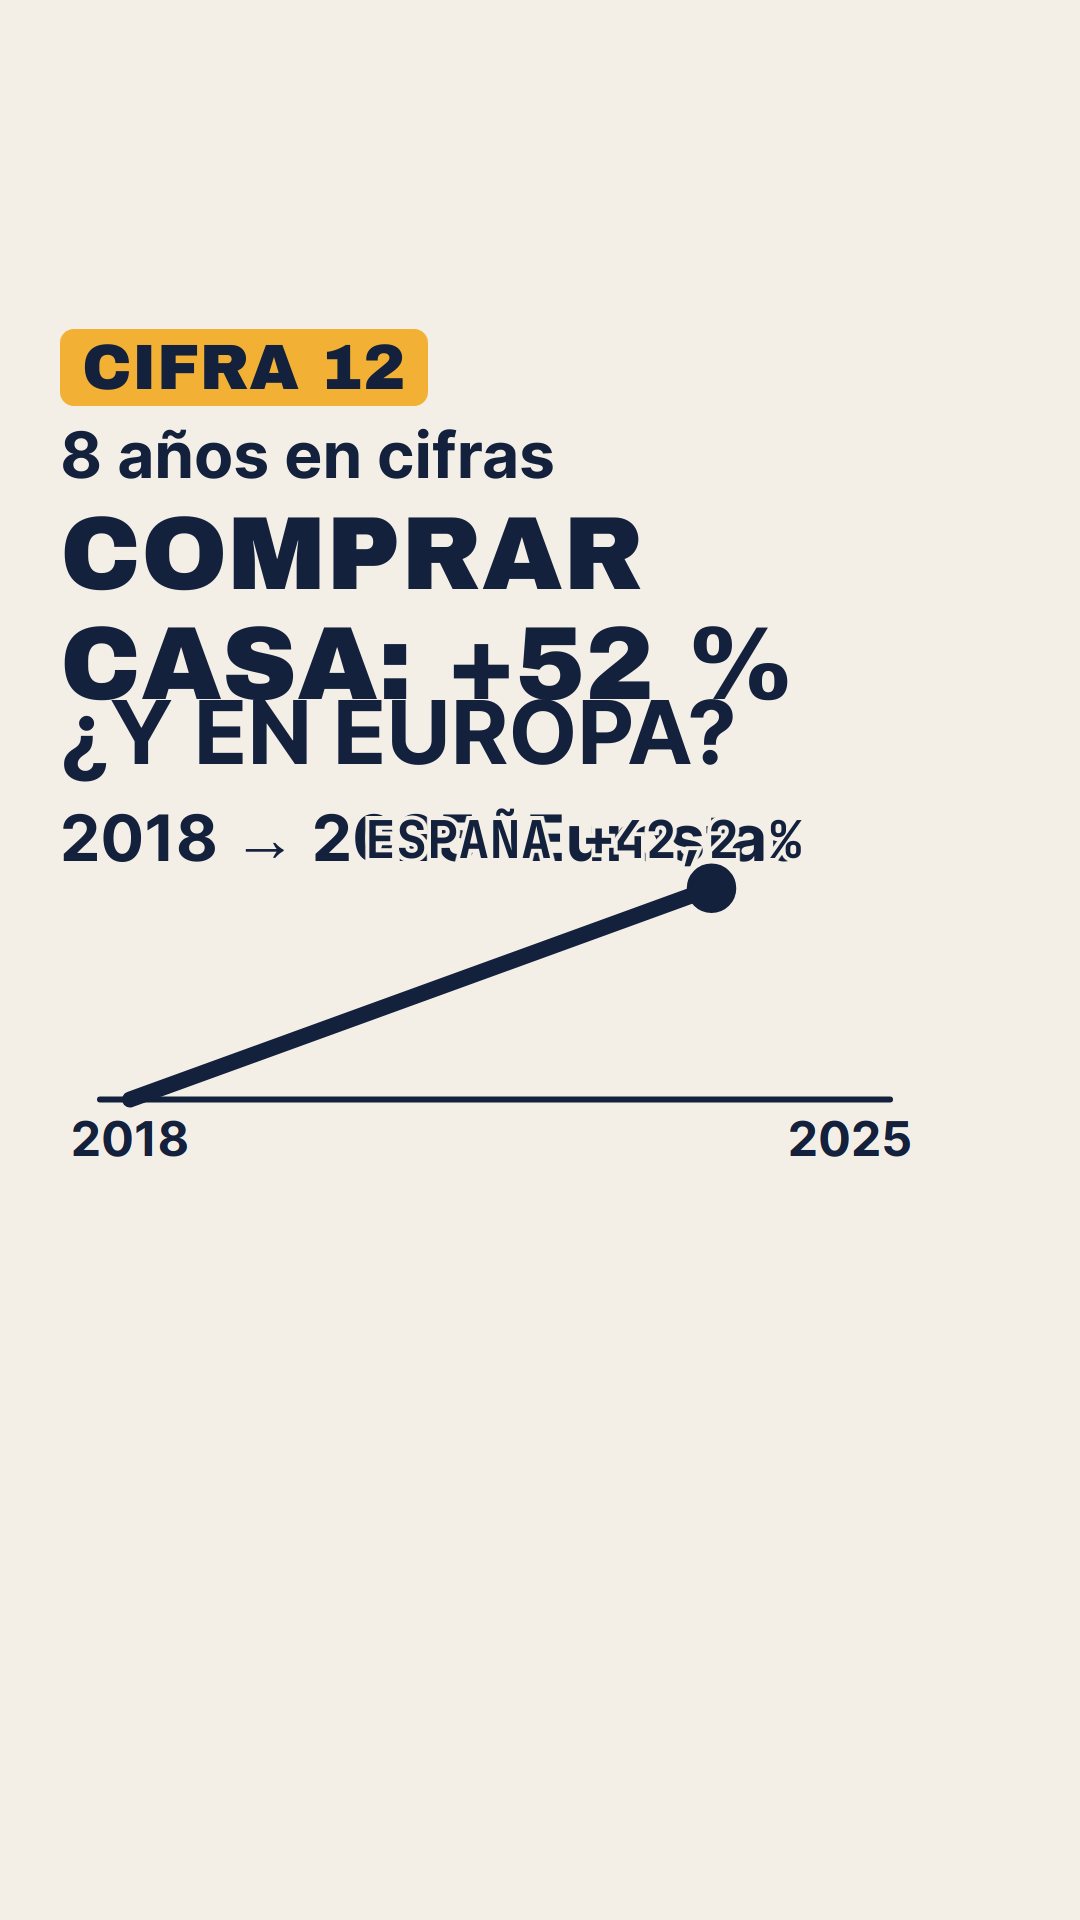
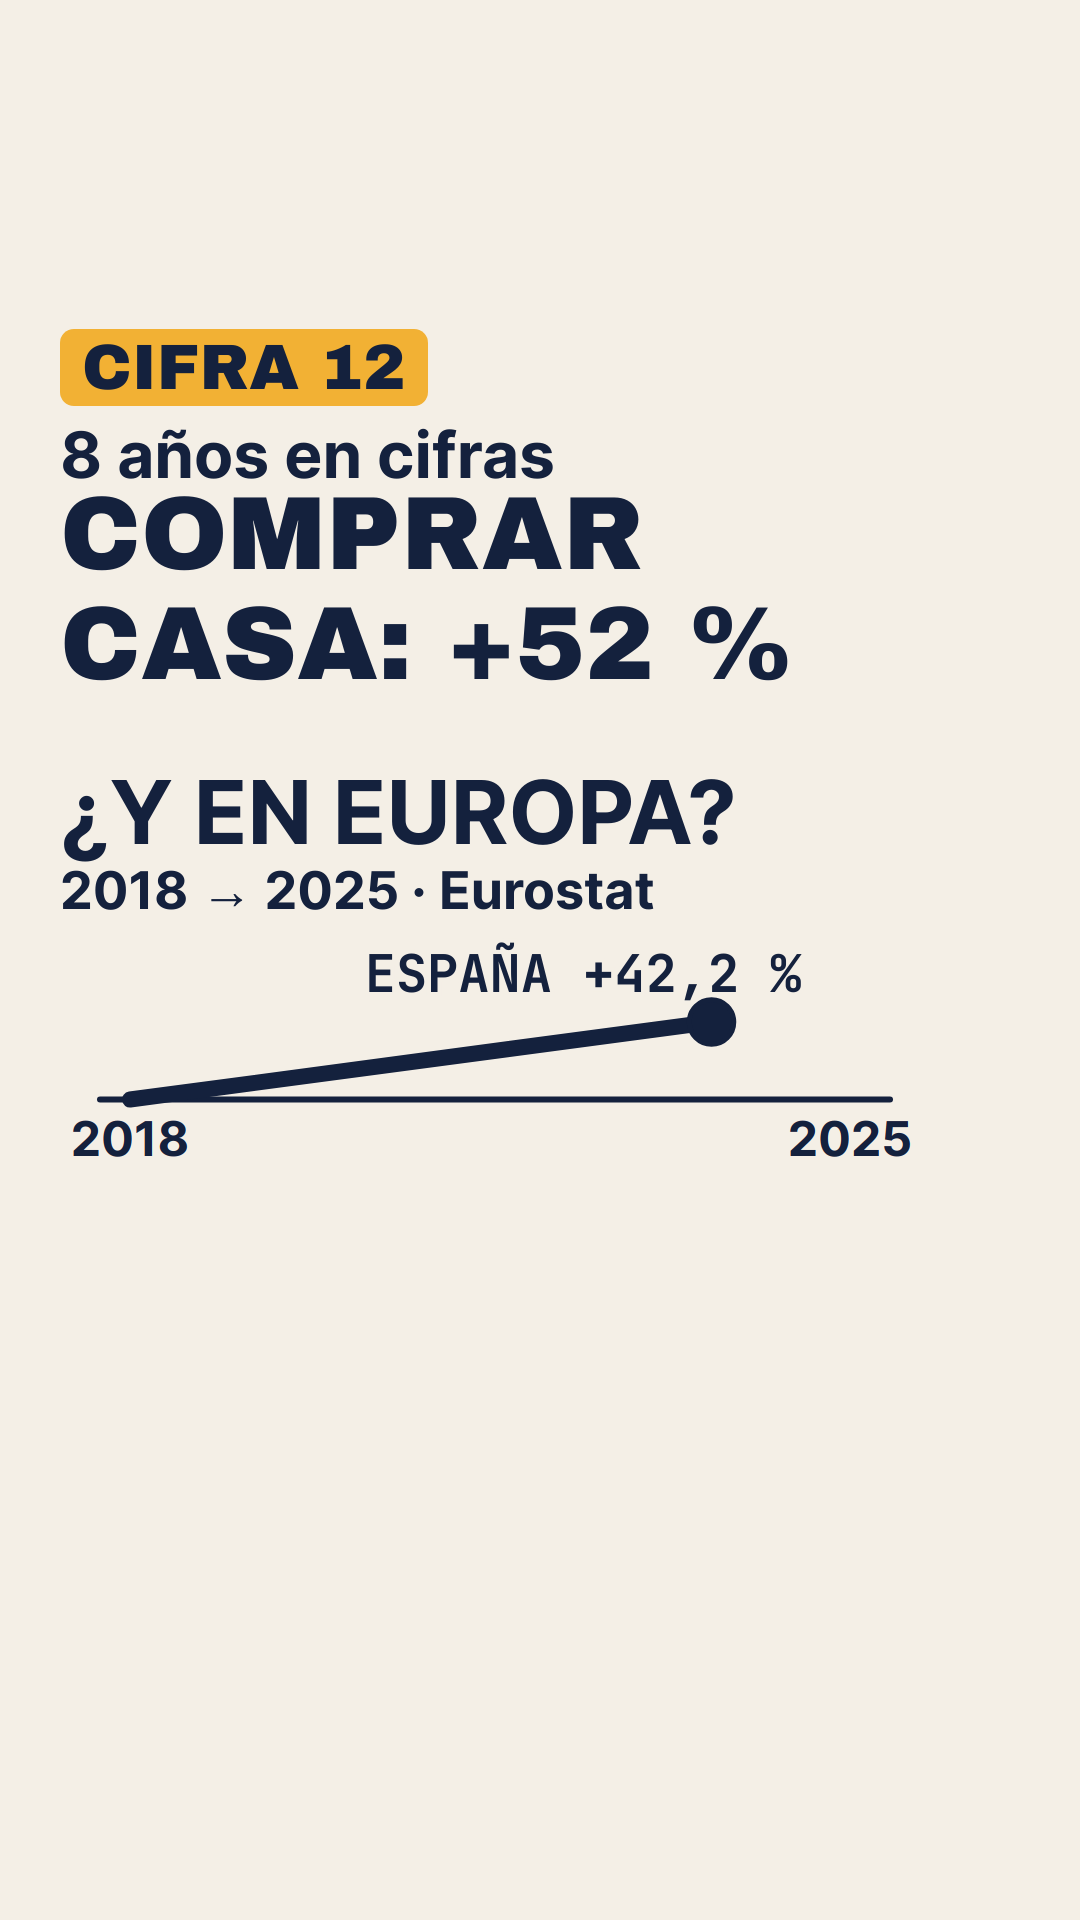
056 vivienda en cola 19-11 19:00; informe de producción

Changed region(s): [[0.0611, 0.25, 0.7333, 0.5938]]

diff --git a/revisiones/videos/056-8-anos-vivienda-v2.md b/revisiones/videos/056-8-anos-vivienda-v2.md
@@ -1,0 +1,23 @@
+# Revisión de vídeo · 056-8-anos-vivienda · vuelta 2
+**Veredicto:** CAMBIOS  →  vuelve a: generador-video
+**Técnica:** 1080x1920 · 30 fps · h264+aac · 35,2 s · -14,1 LUFS · pico -1,4 dBTP (OK)
+**Test de formato Reel/TikTok:** 8/10 (fallan 1 y 5 por legibilidad del gancho)
+
+## Verificación de lo pedido en v1
+- 3 (sello CONTRATOS VIVOS): corregido, visible en todo el bloque 5.
+- 5 (¿Y EN EUROPA?): añadido, pero ver obligatorio 1.
+- 6 (mapa/subtítulo): subtítulo ya no tapa Canarias; OK.
+- 2 (etiqueta UE): ya no se pisa; OK. 6 (A/B): botones COMPRAR/ALQUILAR visibles; OK.
+- 1 (globo +12,2 %): añadido y grande, pero ver obligatorio 2.
+
+## Obligatorio (bloqueante)
+1. [00:00–00:05] Gancho: "CASA: +52 %" (2.ª línea del titular) se pisa con "¿Y EN EUROPA?", y "Eurostat" se pisa con la etiqueta "ESPAÑA +52,3 %". Texto ilegible justo en el segundo del gancho → separar los rótulos (bajar subrótulo/gráfico ~120 px o reducir el titular a una línea).
+2. [00:12–00:16] El globo "+12,2 % EN UN AÑO" entra desde la izquierda cortado ("-12,2" sin +), tapa la fuente "INE, IPV 2T-2026" y la etiqueta "ESPAÑA +52,3 %" (se lee "2,3 %"). Colocarlo bajo el gráfico o a la derecha, sin tapar fuente ni etiquetas, con "+12,2 %" completo al menos 1 s.
+3. [00:08] Rótulo "VIVIENDA, ÚLTIMO AÑO" no está en el guion (aviso de comprobar.mjs): pasarlo al guion o usar un literal del guion; además va en gris pálido (bajo contraste).
+
+## Formato Reel/TikTok
+1. Bloque 6 (mapa): "Estado: Ley de Vivienda 2023 y ayudas" queda cortado/tapado por el mapa; bajar el mapa.
+2. Avisos BORDE x>960 en 8,87 y 15,67 s: coinciden con la entrada del globo (obligatorio 2).
+3. Voz no escuchada: pronunciación validada solo en voz.txt.
+
+Tramos sin cambios (bloques 4-5, cierre) conservan la valoración de v1. Vuelta 3: reaprobación rápida si se corrigen 1-3.

diff --git a/revisiones/videos/056-8-anos-vivienda-v3.md b/revisiones/videos/056-8-anos-vivienda-v3.md
@@ -1,0 +1,18 @@
+# Revisión de vídeo · 056-8-anos-vivienda · vuelta 3 (render definitivo, sustituye al informe anterior)
+**Veredicto:** CAMBIOS  →  vuelve a: generador-video
+**Técnica:** 1080x1920 · 30 fps · h264+aac · 35,2 s · -14,1 LUFS · pico -1,4 dBTP (OK). Voz real ElevenLabs (33,3 s), subtítulos sincronizados con tiempos.json.
+**Test de formato Reel/TikTok:** 8/10 (falla 8 pulido: bloque del mapa; 5 legibilidad parcial)
+
+## Obligatorio (bloqueante)
+1. [00:24–00:28] Mapa (bloque 6): la nota "Estado: Ley de Vivienda 2023 y ayudas" queda tapada por el mapa de España ("Estado: Ley de Vivienda 2023 y ayu…" cortado). Es el mismo fallo señalado en v2 y sigue sin corregir. Bajar el mapa (y en `_generar-escenas.mjs`, ~y 560 → ≥ 700) o subir la nota para que se lea entera. Además el guion pedía iconos de CCAA/ayuntamientos y solo hay un mapa gris plano: añadirlos o aceptar el mapa y avisarlo al coordinador.
+
+## Verificado en esta vuelta (corregido)
+- Gancho 0–4 s: ya sin capa duplicada; "COMPRAR CASA: +52 %" y "¿Y EN EUROPA?" legibles.
+- Globo "+12,2 % EN UN AÑO" (8,6–11,4 s): se lee entero, sin pisar el subtítulo; "HACE UN AÑO" y fuente "INE, IPV 2T-2026" ya legibles en oscuro.
+- Barras de remuneración: +30 % llega a 30 con el mismo eje 0–60 que vivienda (+52). Correcto.
+- Alquiler IPC 11,8 / zona euro 14,8, sello CONTRATOS VIVOS (roza el subtítulo pero sin taparlo), botones A/B y cierre "Cifra 13": OK.
+- Avisos BORDE x>960 (8,87 y 15,67 s): son transiciones, texto dentro de zona; no bloquean.
+
+## Recomendado
+1. [00:12–00:15] La nota de fuente de remuneración (36 px, 3 líneas) queda muy pegada al subtítulo; valorar acortarla.
+2. Rótulo "HACE UN AÑO" no figura literal en el guion: avisar al coordinador para añadirlo.

diff --git a/estado/programado-hoy.md b/estado/programado-hoy.md
@@ -45,3 +45,4 @@ Para vetar una pieza, di "no" o "para" en el chat: se desprograma.
 | 052-voto-correo-29n (v1 reencodado) | Reel 65 s | Instagram + TikTok vía cola | 2026-11-18 13:30 | revisiones/guiones/052-…-v1.md · revisiones/videos/052-…-v1.md (9/10). Plazo de solicitud 19-11: no publicar después |
 | 055-encuestas-prohibidas (v2) | Reel 37 s | Instagram + TikTok () vía cola | 2026-11-18 19:00 | revisiones/guiones/055-…-v1.md (literales aplicados) · revisiones/videos/055-…-v2.md (9/10). Recomprobar LOREG 69.7 |
 | 045-debates-academia-tv (v3) | Reel 33 s | Instagram + TikTok () vía cola | 2026-11-19 13:30 | revisiones/guiones/045-…-v2.md · revisiones/videos/045-…-v3.md (9/10). Antes de publicar: ver si Mediaset confirma; el debate es el 19-11 22:00 |
+| 056-8-anos-vivienda (v4) | Reel 35 s | Instagram + TikTok () vía cola | 2026-11-19 19:00 | revisiones/guiones/056-…-v1.md · revisiones/videos/056-…-v4.md (9/10). Recomprobar que el INE no saque IPV 3T

diff --git a/revisiones/videos/056-8-anos-vivienda-v4.md b/revisiones/videos/056-8-anos-vivienda-v4.md
@@ -1,0 +1,13 @@
+# Revisión de vídeo · 056-8-anos-vivienda · vuelta 4 (última; sustituye a v3)
+**Veredicto:** APROBADO
+**Técnica:** 1080x1920 · 30 fps · h264+aac · 35,2 s · -14,0 LUFS · pico -1,4 dBTP (OK). Voz real, subtítulos sincronizados.
+**Test de formato Reel/TikTok:** 9/10 (resta el mapa plano, sin iconos de CCAA/ayuntamientos).
+
+## Bloqueante de v3: resuelto
+- [00:24–00:28] Mapa bajado: la nota "Estado: Ley de Vivienda 2023 y ayudas" se lee entera, sin solaparse con el mapa; el subtítulo queda sobre el mapa sin tapar texto.
+- El resto de lo verificado en v3 no cambia (solo se tocó el mapa).
+
+## No bloqueante (avisar al coordinador)
+1. Faltan los iconos de CCAA/ayuntamientos previstos en el guion; mapa gris plano aceptado.
+2. Nota de fuente de remuneración (00:12–00:15) pegada al subtítulo.
+3. Rótulo "HACE UN AÑO" no figura literal en el guion.

diff --git a/memoria/coordinador.md b/memoria/coordinador.md
@@ -58,3 +58,4 @@
 - 2026-11-16: antes de encargar, `git fetch` y mira origin/main: otra ejecución ya había encolado 053/054 del 17-11 y mis guiones duplicados se descartaron (gasto inútil).
 - [nube, 2026-11-17] Rutina claude.ai: red igual (curl 000). Informe y salida. 052 falló en IG (transcoding, no reintentable): avisado; huecos 18 y 19-11 para produccion.yml.
 - 2026-11-17: sin serie ni propuestas libres, el buscador dio 3 temas en 4 min; el render v2 sin --voz reutiliza la voz y ahorra créditos.
+- 2026-11-18: el generador crea escenas.json/_generar-escenas.mjs si falta; cuidado: el revisor puede ver un render intermedio si lanzas la revisión mientras el generador aún corrige (esperar su aviso). Piezas con 4 vueltas de vídeo cuestan ~25 min.

diff --git a/estado/pipeline.md b/estado/pipeline.md
@@ -119,3 +119,4 @@ Lo mantiene el coordinador. Una fila por pieza.
 | 055 | encuestas-prohibidas | ⚙ Cómo funciona | Flash | programado | 1 | 2 | 2026-11-18 19:00 (cola) | v2 APROBADO 9/10 |
 | am20261117-1330-alvise-vivienda | Al minuto · propuesta Alvise vivienda | Al minuto | - | publicando (Al minuto horario) | - | - | 2026-11-17 14:00 | autocomprobación |
 | am20261117-1530-abascal-fronteras | Al minuto · Abascal: las fronteras se pueden defender | Al minuto | - | publicando (Al minuto horario) | - | - | 2026-11-17 16:00 | autocomprobación |
+| 056 | 8-anos-vivienda | 💶 Economía · serie 8 años | Flash | programado | 1 | 4 | 2026-11-19 19:00 (cola) | v4 APROBADO 9/10 |

diff --git a/estado/informe-produccion-2026-11-18.md b/estado/informe-produccion-2026-11-18.md
@@ -1,0 +1,4 @@
+# Informe de producción 2026-11-18
+- Hoy ya cubierto: 052 (13:30) y 055 (19:00) en cola.
+- Mañana 19-11: 045-debates-academia-tv v3 a las 13:30 (guion v2 APROBADO, vídeo 9/10) y 056-8-anos-vivienda v4 a las 19:00 (guion APROBADO, vídeo 9/10). Ambos en release "listos".
+- A medias: nada. Antes de publicar: ver si Mediaset confirma (045) y que el INE no saque el IPV 3T (056).

diff --git a/publicado/056-8-anos-vivienda.md b/publicado/056-8-anos-vivienda.md
@@ -17,4 +17,6 @@ Fuente: Eurostat (prc_hpi_a, nama_10_a10, nama_10_a10_e, prc_hicp_aind) e INE (I
 
 #8AñosEnCifras #Vivienda #Eurostat #INE #Economía #España
 
+Música: "Investigations", Kevin MacLeod (incompetech.com), CC BY 4.0.
+
 👉 Síguenos para estar informado
